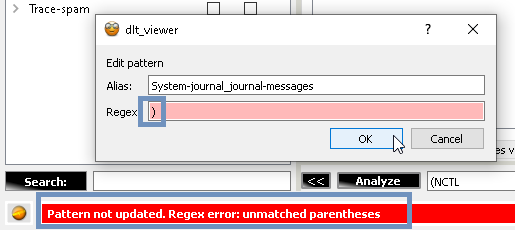
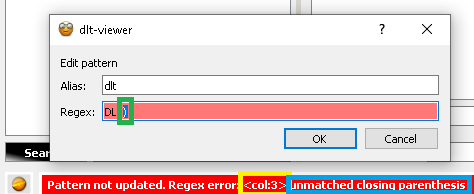
[ISSUE #105][SEARCH] Extend regex error message with the symbol number at which the error has occurred
1. [x] Have you followed the guidelines in our [Contributing document](../blob/master/CONTRIBUTING.md)?
2. [x] Have you checked to ensure there aren't other open [Pull Requests](../pulls) for the same update/change?
3. [x] Have you built the project, and performed manual testing of your functionality for all supported platforms - Linux and Windows?
4. [x] Is your change backward-compatible with the previous version of the plugin?

>>> Change description:

- Extension of the regex error message with the symbol number at which the error has occurred
- Cursor of the regex line edit is now jumping to the error
- Limitation of the "filter's view" auto-completion functionality to the var groups. Simple groups are now ignored by the auto-completion functionality
- Modification of README in order to reflect changes in the functionality

>>> Verification criteria:

- Changed were manually tested on Windows OS
- All sanity checks on the Git hub were passed

diff --git a/dltmessageanalyzerplugin/src/CDLTMessageAnalyzer.cpp b/dltmessageanalyzerplugin/src/CDLTMessageAnalyzer.cpp
@@ -634,11 +634,11 @@ std::shared_ptr<QRegularExpression> CDLTMessageAnalyzer::createRegex( const QStr
                                                                       const QString& onSuccessMessages,
                                                                       const QString& onFailureMessages,
                                                                       bool appendRegexError,
+                                                                      QLineEdit* pRegexLineEdit,
                                                                       QWidget* pErrorAnimationWidget
                                                                       )
 {
-    //each regex is prefixed with "(?J)" in order to allow duplicated group names
-    QString regex_ = QString("(?J)").append(regex);
+    QString regex_ = addRegexOptions( regex );
 
     auto caseSensitiveOption = CSettingsManager::getInstance()->getCaseSensitiveRegex() ?
                 QRegularExpression::NoPatternOption:
@@ -659,10 +659,17 @@ std::shared_ptr<QRegularExpression> CDLTMessageAnalyzer::createRegex( const QStr
 
             if(true == appendRegexError)
             {
-                error.append(pResult->errorString());
+                error.append(getFormattedRegexError(*pResult));
             }
 
             updateStatusLabel( error, true );
+
+            if( nullptr != pRegexLineEdit)
+            {
+                pRegexLineEdit->setFocus();
+                auto errorColumn = getRegexErrorColumn(*pResult);
+                pRegexLineEdit->setSelection(errorColumn, 1);
+            }
 
             if(nullptr != pErrorAnimationWidget)
             {
@@ -841,7 +848,7 @@ bool CDLTMessageAnalyzer::analyze()
 
     if(0 != regex.size())
     {
-        auto pRegex = createRegex( regex, sDefaultStatusText, "Regex error: ", true, mpRegexLineEdit );
+        auto pRegex = createRegex( regex, sDefaultStatusText, "Regex error: ", true, mpRegexLineEdit, mpRegexLineEdit );
 
         if(nullptr == pRegex || false == pRegex->isValid())
         {
@@ -912,13 +919,15 @@ void CDLTMessageAnalyzer::cancel()
 {
     if( nullptr == mpProgressBar ||
             nullptr == mpGroupedViewModel ||
-            nullptr == mpSearchResultModel )
+            nullptr == mpSearchResultModel ||
+            nullptr == mpFiltersModel )
     {
         return;
     }
 
     mpGroupedViewModel->resetData();
     mpSearchResultModel->resetData();
+    mpFiltersModel->resetCompletionData();
 
     updateProgress(0, eRequestState::SUCCESSFUL, true);
 
@@ -1229,7 +1238,7 @@ void CDLTMessageAnalyzer::addPattern(const QString& pattern)
 
     bool ok;
 
-    auto pRegex = createRegex( pattern, sDefaultStatusText, "Pattern not saved. Regex error: ", true, mpRegexLineEdit );
+    auto pRegex = createRegex( pattern, sDefaultStatusText, "Pattern not saved. Regex error: ", true, mpRegexLineEdit, mpRegexLineEdit );
 
     if(true == pRegex->isValid())
     {
@@ -1496,7 +1505,7 @@ void CDLTMessageAnalyzer::overwritePattern()
 
         QString alias = selectedRow.data().value<QString>();
         QString regex = mpRegexLineEdit->text();
-        auto pParsedRegex = createRegex( regex, sDefaultStatusText, "Pattern not updated. Regex error: ", true, mpRegexLineEdit );
+        auto pParsedRegex = createRegex( regex, sDefaultStatusText, "Pattern not updated. Regex error: ", true, mpRegexLineEdit, mpRegexLineEdit );
 
         if(nullptr != pParsedRegex && true == pParsedRegex->isValid())
         {
@@ -1573,7 +1582,7 @@ void CDLTMessageAnalyzer::editPattern()
         {
             if(nullptr != pRegexLineEdit)
             {
-                auto pRegex = createRegex( pRegexLineEdit->text(), sDefaultStatusText, "Pattern not updated. Regex error: ", true, pRegexLineEdit );
+                auto pRegex = createRegex( pRegexLineEdit->text(), sDefaultStatusText, "Pattern not updated. Regex error: ", true, pRegexLineEdit, pRegexLineEdit );
 
                 if(nullptr != pRegex && true == pRegex->isValid())
                 {

diff --git a/dltmessageanalyzerplugin/src/filtersView/CFiltersModel.cpp b/dltmessageanalyzerplugin/src/filtersView/CFiltersModel.cpp
@@ -24,7 +24,8 @@ CFiltersModel::CFiltersModel(QObject *parent)
       mSortOrder(Qt::SortOrder::AscendingOrder),
       mSortingHandler(),
       mFilter(),
-      mCompletionCache()
+      mCompletionCache(),
+      mVarGroupsMap()
 {
     mSortingHandler = [](const QVector<tTreeItemPtr>& children,
                             const int& sortingColumn,
@@ -358,7 +359,7 @@ QPair<bool,QString> CFiltersModel::packRegex()
 
         mpRootItem->visit(preVisitFunction, postVisitFunction, false, true, false);
 
-        QRegularExpression regex( QString("(?J)").append( regexStr ) );
+        QRegularExpression regex( addRegexOptions( regexStr ) );
 
         result.first = regex.isValid();
 
@@ -370,7 +371,7 @@ QPair<bool,QString> CFiltersModel::packRegex()
         {
             SEND_ERR(QString("Pack regex: regex - %1").arg(regexStr));
             SEND_ERR(QString("Pack regex: error - %1").arg(regex.errorString()));
-            result.second = regex.errorString();
+            result.second = getFormattedRegexError( regex );
         }
     }
 
@@ -412,7 +413,7 @@ void CFiltersModel::resetData()
 
 void CFiltersModel::setUsedRegex(const QString& regexStr)
 {
-    QString regex_ = QString("(?J)").append(regexStr);
+    QString regex_ = addRegexOptions( regexStr );
 
     // we should reset a group
     resetData();
@@ -460,6 +461,16 @@ void CFiltersModel::setUsedRegex(const QString& regexStr)
             timer.restart();
 #endif
 
+            updateVarGroupsMap();
+
+#ifdef DEBUG_BUILD
+            SEND_MSG(QString("[CFiltersModel][%1] It took %2 ms to update var group map")
+                     .arg(__FUNCTION__)
+                     .arg(timer.elapsed()));
+
+            timer.restart();
+#endif
+
             filterRegexTokensInternal();
 
 #ifdef DEBUG_BUILD
@@ -468,6 +479,31 @@ void CFiltersModel::setUsedRegex(const QString& regexStr)
                      .arg(timer.elapsed()));
 #endif
         }
+    }
+}
+
+void CFiltersModel::updateVarGroupsMap()
+{
+    if(nullptr != mpRootItem)
+    {
+        mVarGroupsMap.clear();
+
+        auto preVisitFunction = [this](tTreeItem* pItem)
+        {
+            if(nullptr != pItem)
+            {
+                bool bIsVar = eRegexFiltersRowType::VarGroup == pItem->data(static_cast<int>(eRegexFiltersColumn::RowType)).get<eRegexFiltersRowType>();
+
+                if(true == bIsVar)
+                {
+                    mVarGroupsMap.insert( pItem->data(static_cast<int>(eRegexFiltersColumn::GroupIndex)).get<int>() );
+                }
+            }
+
+            return true;
+        };
+
+        mpRootItem->visit(preVisitFunction, CTreeItem::tVisitFunction(), false, true, false);
     }
 }
 
@@ -700,11 +736,16 @@ void CFiltersModel::filterRegexTokensInternal()
     //SEND_MSG(QString("~3 [CFiltersModel][%1] Processing took - %2 ms").arg(__FUNCTION__).arg(time.elapsed()));
 }
 
-void CFiltersModel::addCompletionData( const tFoundMatches& foundMatches)
+void CFiltersModel::addCompletionData( const tFoundMatches& foundMatches )
 {
     for(const auto& foundMatch : foundMatches)
     {
-        mCompletionCache[foundMatch.idx].insert( tQStringPtrWrapper( foundMatch.pMatchStr ) );
+        auto foundVarGroup = mVarGroupsMap.find(foundMatch.idx);
+
+        if(foundVarGroup != mVarGroupsMap.end())
+        {
+            mCompletionCache[foundMatch.idx].insert( tQStringPtrWrapper( foundMatch.pMatchStr ) );
+        }
     }
 }
 

diff --git a/dltmessageanalyzerplugin/src/common/Definitions.cpp b/dltmessageanalyzerplugin/src/common/Definitions.cpp
@@ -40,6 +40,7 @@ const QString s_UML_SERVICE = "US"; // - mandatory
 const QString s_UML_METHOD = "UM"; // - mandatory
 const QString s_UML_ARGUMENTS = "UA"; // - optional
 const QString s_UML_ALIAS_DELIMITER = "_";
+const QString s_Regex_options = "(?J)";
 
 static tUML_IDs_Map createUMLIDsMap()
 {
@@ -2251,4 +2252,26 @@ QString rgb2hex(const QColor& color, bool with_head)
 #endif
 
     return result;
+}
+
+QString addRegexOptions( const QString& regex )
+{
+    QString result;
+    result.append(s_Regex_options).append(regex);
+    return result;
+}
+
+int getRegexOptionsCharSize()
+{
+    return s_Regex_options.size();
+}
+
+QString getFormattedRegexError(const QRegularExpression& regex)
+{
+    return QString().append(QString("<col:%1> %2").arg(getRegexErrorColumn(regex)).arg(regex.errorString()));
+}
+
+int getRegexErrorColumn(const QRegularExpression& regex)
+{
+    return regex.patternErrorOffset() - getRegexOptionsCharSize();
 }

diff --git a/dltmessageanalyzerplugin/src/CDLTMessageAnalyzer.hpp b/dltmessageanalyzerplugin/src/CDLTMessageAnalyzer.hpp
@@ -247,7 +247,8 @@ signals:
                                                          const QString& onSuccessMessages,
                                                          const QString& onFailureMessages,
                                                          bool appendRegexError,
-                                                         QWidget* pErrorAnimationWidget = nullptr );
+                                                         QLineEdit* pRegexLineEdit,
+                                                         QWidget* pErrorAnimationWidget = nullptr);
 
         void updateStatusLabel( const QString& text, bool isError = false );
         void processOverwritePattern(const QString& alias, const QString checkedRegex, const QModelIndex editItem = QModelIndex());

diff --git a/dltmessageanalyzerplugin/src/filtersView/CFiltersModel.hpp b/dltmessageanalyzerplugin/src/filtersView/CFiltersModel.hpp
@@ -62,6 +62,8 @@ private:
     QPair<bool,QString> packRegex();
     void resetRootItem();
 
+    void updateVarGroupsMap();
+
     CFiltersModel(const CFiltersModel&) = delete;
     CFiltersModel& operator=(const CFiltersModel&) = delete;
     CFiltersModel(const CFiltersModel&&) = delete;
@@ -79,6 +81,9 @@ private:
     typedef std::set<tQStringPtrWrapper> tStringPtrWrapperSet;
     typedef std::map<int /*group id*/, tStringPtrWrapperSet> tCompletionCache;
     tCompletionCache mCompletionCache;
+
+    typedef std::set<int /*group id*/> tVarGroupsMap;
+    tVarGroupsMap mVarGroupsMap;
 };
 
 Q_DECLARE_METATYPE(CFiltersModel::tFilteredEntryVec)

diff --git a/dltmessageanalyzerplugin/src/filtersView/CFilterItemDelegate.cpp b/dltmessageanalyzerplugin/src/filtersView/CFilterItemDelegate.cpp
@@ -170,7 +170,7 @@ void CFilterItemDelegate::updateSuggestions(const QString& input)
                 {
                     auto parentRowType = parentIndex.sibling(parentIndex.row(), static_cast<int>(eRegexFiltersColumn::RowType)).data().value<eRegexFiltersRowType>();
 
-                    if(parentRowType != eRegexFiltersRowType::Text) // if parent is not a text
+                    if(parentRowType == eRegexFiltersRowType::VarGroup) // if parent is var
                     {
                         auto groupIndex = parentIndex.sibling(parentIndex.row(), static_cast<int>(eRegexFiltersColumn::GroupIndex)).data().value<int>();
 

diff --git a/dltmessageanalyzerplugin/src/settings/CSettingsManager.hpp b/dltmessageanalyzerplugin/src/settings/CSettingsManager.hpp
@@ -505,7 +505,7 @@ private: // fields
     TSettingItem<bool> mSetting_UML_WrapOutput;
     TSettingItem<bool> mSetting_UML_Autonumber;
 
-    // Filters view completion settinfs
+    // Filters view completion settings
     TSettingItem<bool> mSetting_FiltersCompletion_CaseSensitive;
     TRangedSettingItem<int> mSetting_FiltersCompletion_MaxNumberOfSuggestions;
     TRangedSettingItem<int> mSetting_FiltersCompletion_MaxCharactersInSuggestion;

diff --git a/dltmessageanalyzerplugin/src/common/Definitions.hpp b/dltmessageanalyzerplugin/src/common/Definitions.hpp
@@ -638,4 +638,9 @@ Qt::CheckState V_2_CS( const QVariant& val );
 
 QString rgb2hex(const QColor& color, bool with_head = true);
 
+QString addRegexOptions( const QString& regex );
+int getRegexOptionsCharSize();
+QString getFormattedRegexError(const QRegularExpression& regex);
+int getRegexErrorColumn(const QRegularExpression& regex);
+
 #endif // DEFINITIONS_HPP

diff --git a/md/search/search.md b/md/search/search.md
@@ -69,11 +69,13 @@ The changed setting would be persisted and applied to all the next search operat
 
 ## Regex errors handling
 
-In case if user makes a mistake in the provided regex, the plugin will give a status bar notification with description of the error, which is provided by the used regex engine:
+In case if user makes a mistake in the provided regex, the plugin will give a status bar notification with description of the error, which was provided by the used regex engine:
 
 ![Screenshot of the attempt to apply regex which contains the error](./regex_with_error.png)
 
-The same kind of error handling is also supported in the other menus, where user can enter the patterns-related regexes, e.g. during the edit operation: 
+Notification message contains the col number, at which an error has occured. In addition to that, the regex line edit will jump to the error location and will select the col number character, which contains error. 
+
+The same kind of error handling is also supported in the other menus, where user can enter the regexes, e.g. during the edit operation of the previously saved pattern: 
 
 ![Screenshot of the attempt to save the regex which contains the error](./regex_with_error_in_edit_mode.png)
 

diff --git a/md/filters_view/filters_view.md b/md/filters_view/filters_view.md
@@ -70,8 +70,8 @@ If needed it is possible to switch from visualization of "Variables ONLY" to vis
 
 Plugin's implementation supports auto-complete functionality for the "filters view".
 All found regex captures are cached and used to help the user to go from the general to the specific queries.
-Auto-completion functionality works for all "Group->Text" parts of the fiters view's tree.
-The restriction is that the target group should have 1 single text child node. Otherwise auto-completion will not be applied.
+Auto-completion functionality works for all "VarGroup->Text" parts of the fiters view's tree.
+The restriction is that the target var group should have 1 single text child node. Otherwise auto-completion will not be applied.
 
 How it works?
 
